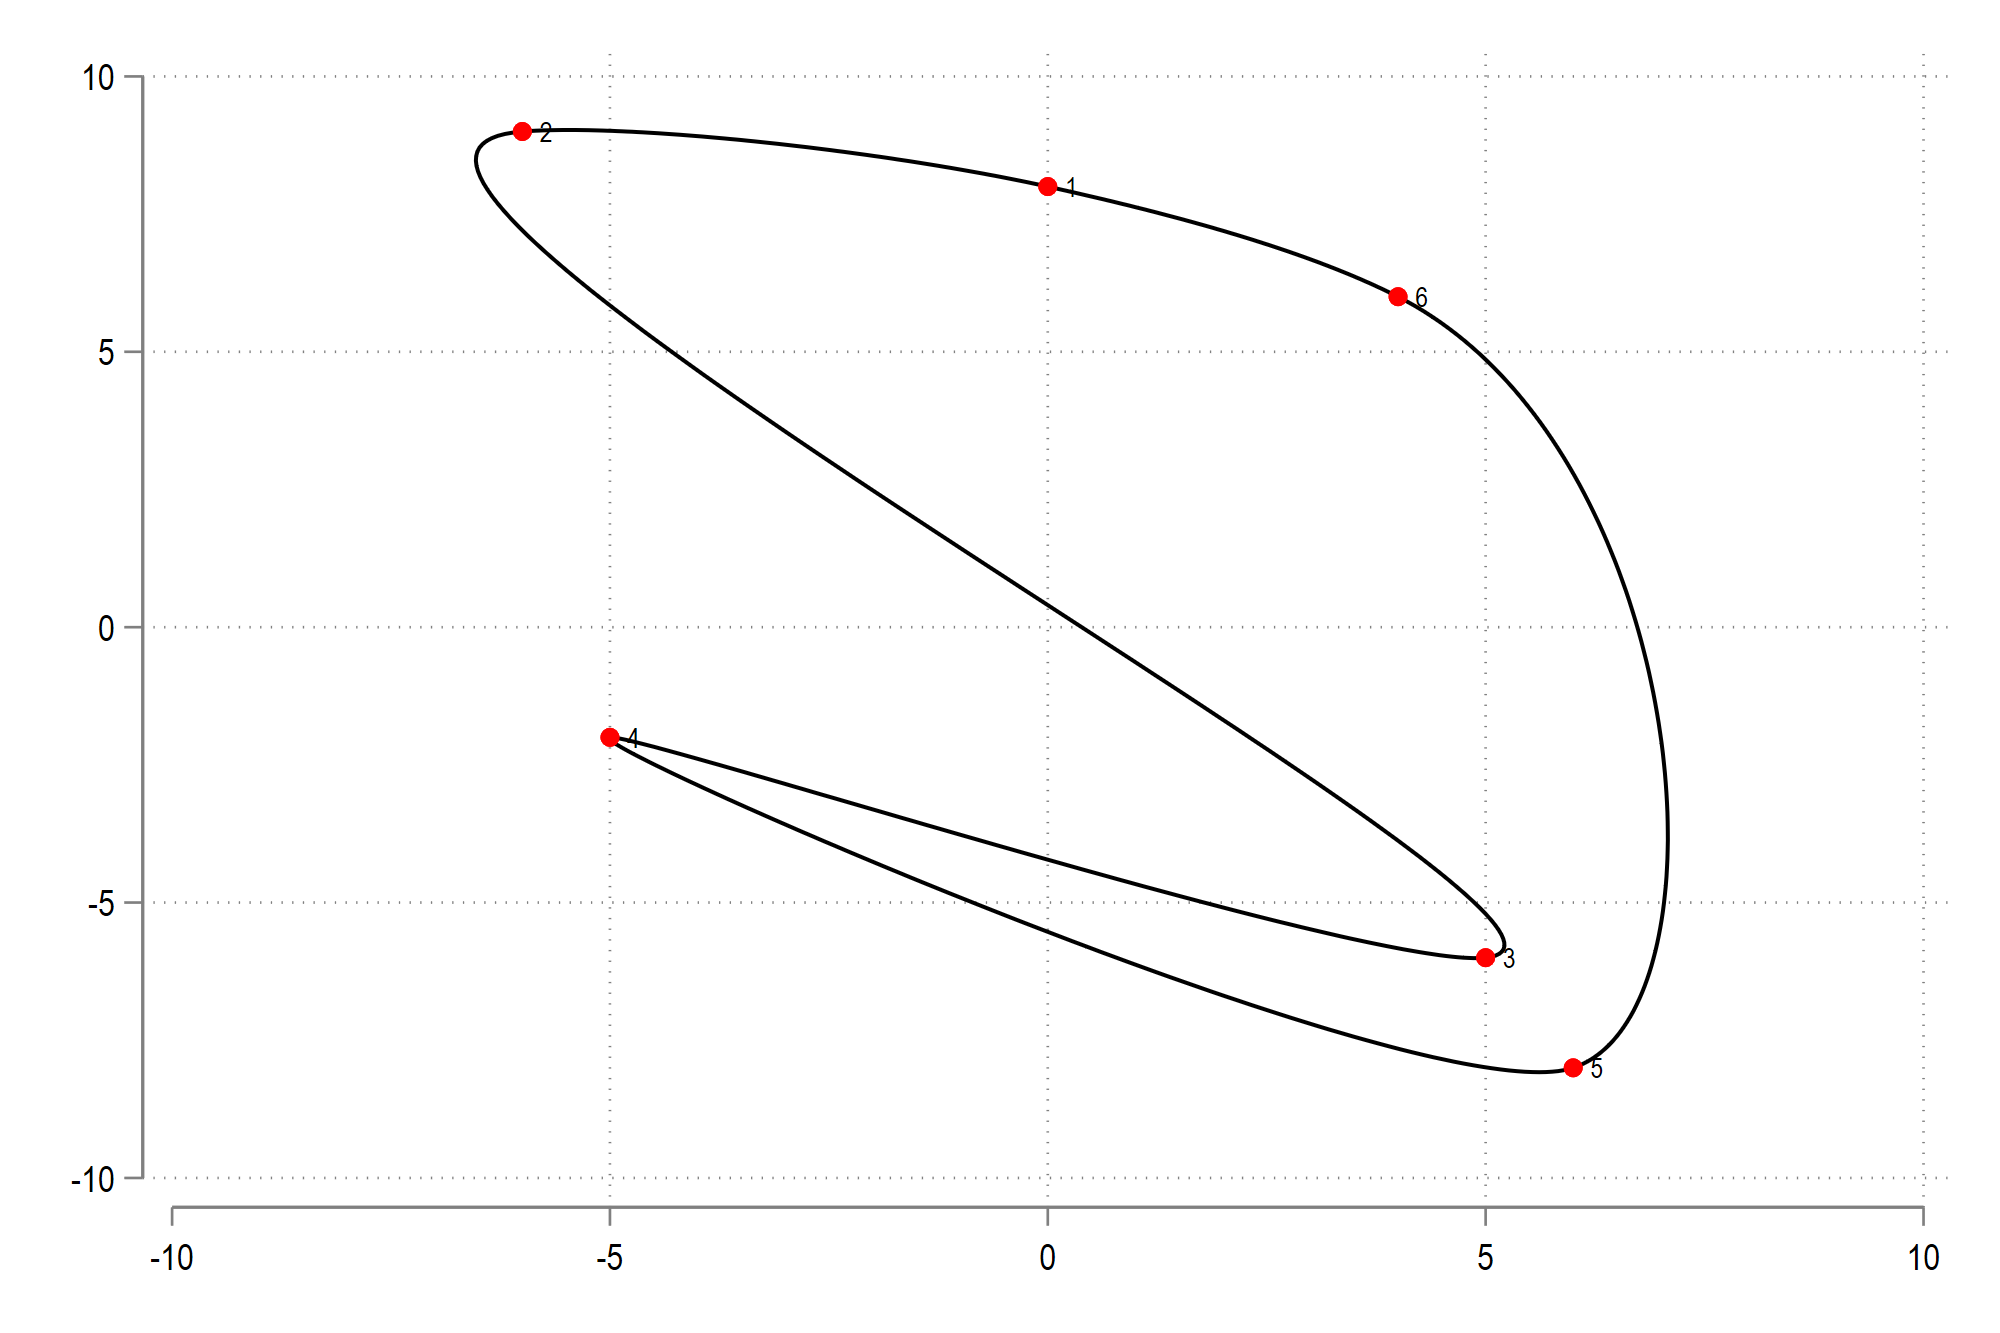
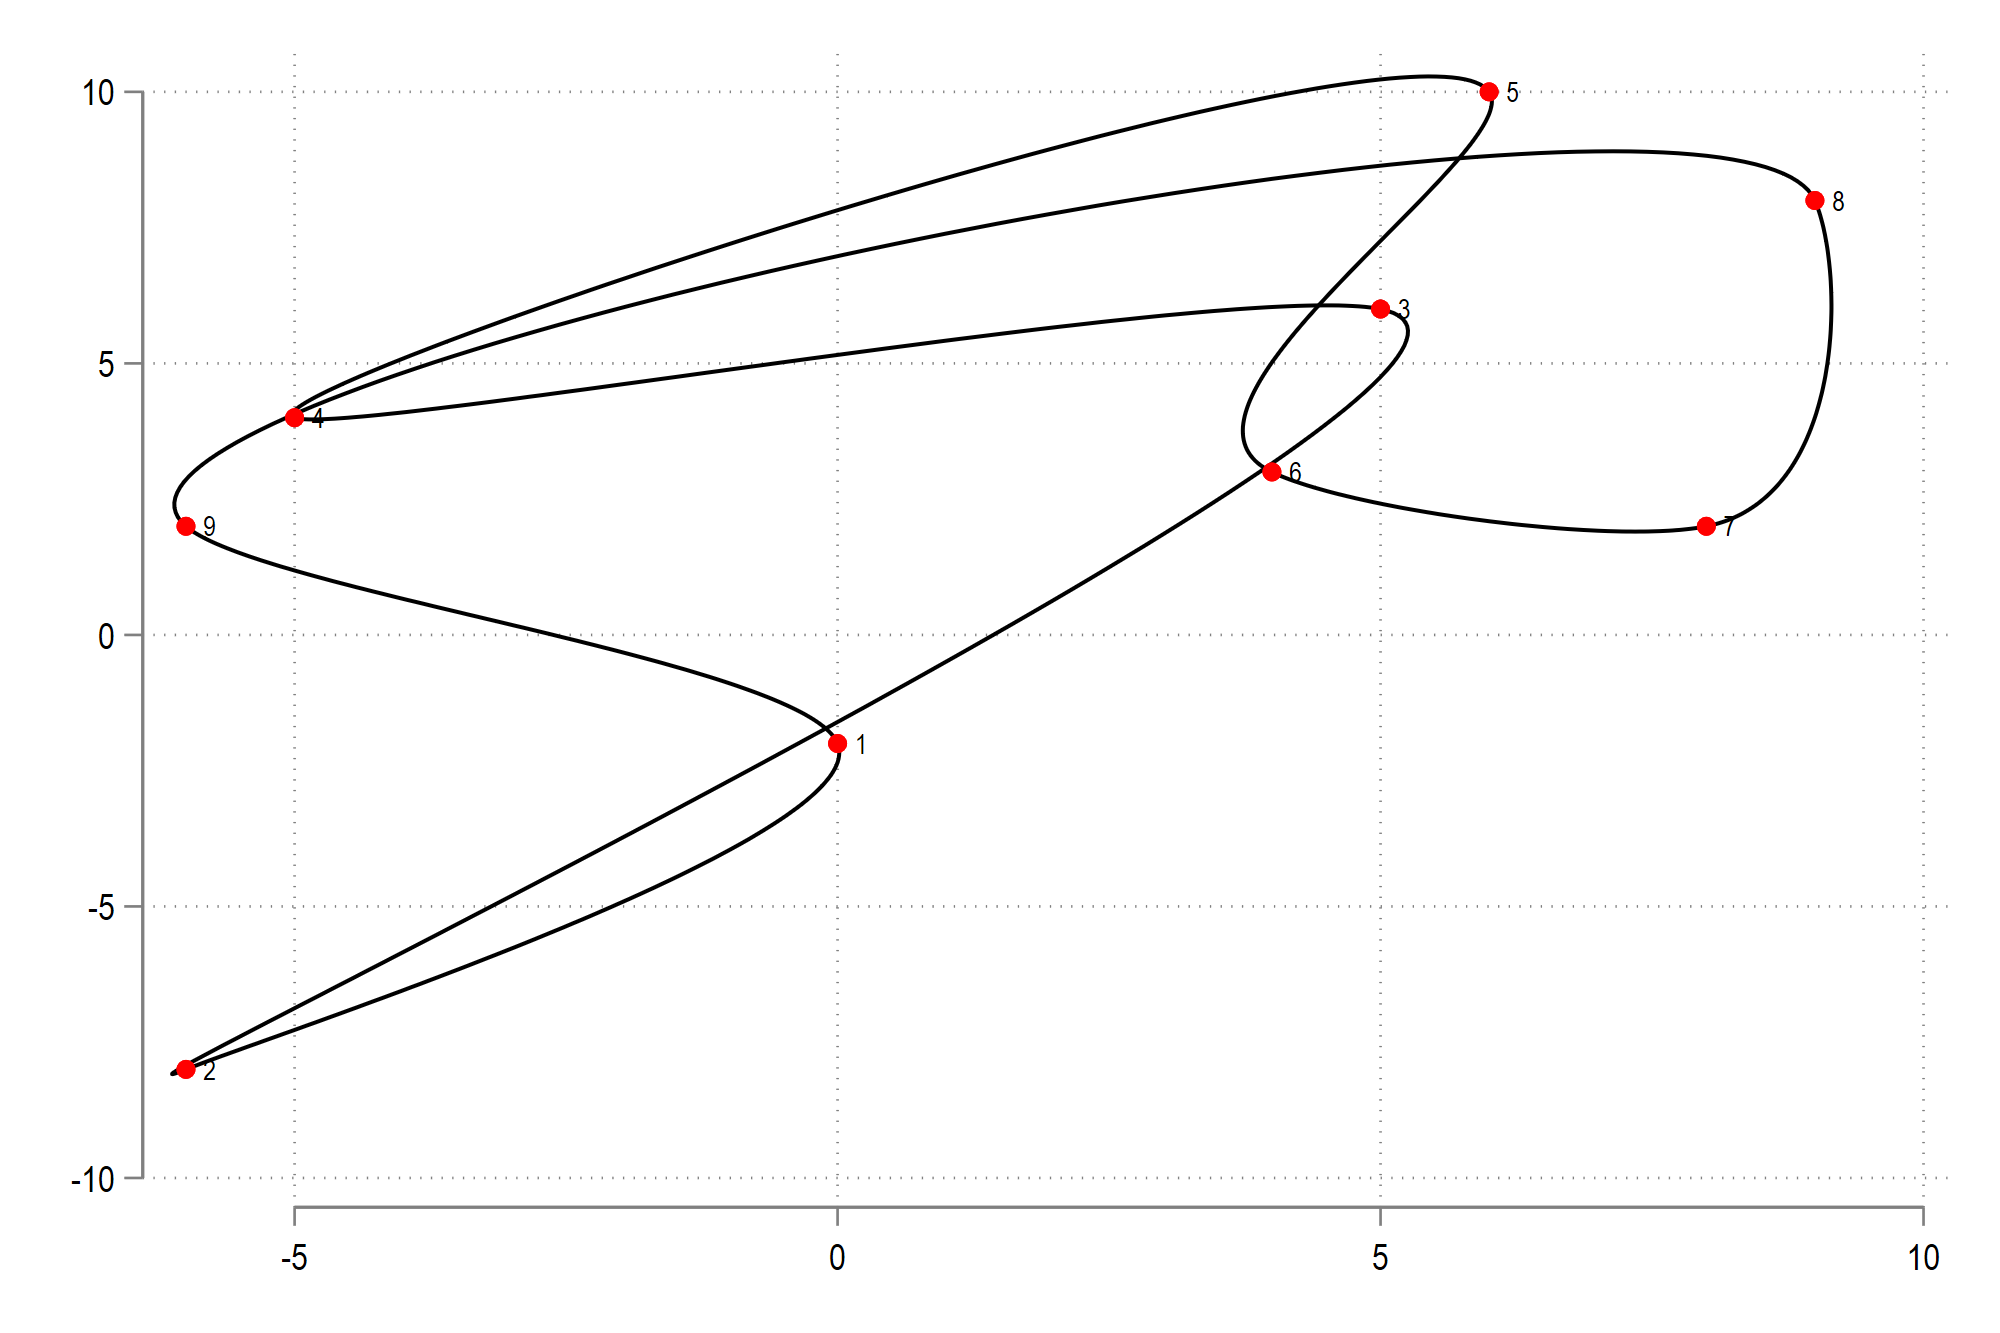
v1.0 beta

diff --git a/README.md b/README.md
@@ -68,7 +68,7 @@ See the help file `help splinefit` for details.
 Get the example data from GitHub:
 
 ```
-set obs 6
+set obs 9
 
 gen id = _n
 gen x = .
